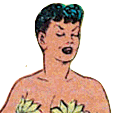
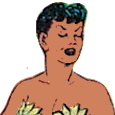
added new torchy version

diff --git a/script.js b/script.js
@@ -18,11 +18,17 @@ let t20 = document.querySelector("#t20");
 let t22 = document.querySelector("#t22");
 let t23 = document.querySelector("#t23");
 let t24 = document.querySelector("#t24");
+let t31 = document.querySelector("#t31");
+let t32 = document.querySelector("#t32");
+let t33 = document.querySelector("#t33");
+
 let container = document.querySelector("#dress-box");
 let container2 = document.querySelector("#dress-box2");
 let container3 = document.querySelector("#dress-box3");
 let container4 = document.querySelector("#dress-box4");
 let container5 = document.querySelector("#dress-box5");
+let container6 = document.querySelector("#dress-box6");
+
 
 function moveDress(dragItem, container) {
 
@@ -114,6 +120,8 @@ let box2 = document.getElementById("box2");
 let box3 = document.getElementById("box3");
 let box4 = document.getElementById("box4");
 let box5 = document.getElementById("box5");
+let box6 = document.getElementById("box6");
+
 let intro= document.getElementById("intro");
 
 
@@ -122,8 +130,9 @@ let two = document.getElementById("two");
 let three = document.getElementById("three");
 let four = document.getElementById("four");
 let five= document.getElementById("five");
+let six= document.getElementById("six");
 
-let elms = [box1, box2, box3, box4, box5, intro];
+let elms = [box1, box2, box3, box4, box5, box6, intro];
 
 function viewDresses1() {
   let dresses= [t1, t2, t3, t4, t5];
@@ -193,8 +202,23 @@ function viewDresses5() {
   }
 };
 
+function viewDresses6() {
+  let dresses= [t31, t32, t33];
+  for (i=0; i < elms.length; i++){
+    if (elms[i] == box6){
+      show_elm(box6);
+    } else {
+      hide_elm(elms[i]);
+    }
+  };
+  for (i=0; i < dresses.length; i++){
+    moveDress(dresses[i], container6);
+  }
+};
+
 one.addEventListener("click", viewDresses1);
 two.addEventListener("click", viewDresses2);
 three.addEventListener("click", viewDresses3);
 four.addEventListener("click", viewDresses4);
 five.addEventListener("click", viewDresses5);
+six.addEventListener("click", viewDresses6);

diff --git a/styles.css b/styles.css
@@ -40,7 +40,7 @@ nav {
   background-color: rgba(173,109,104,.9);
 }
 
-#box1, #box2, #box3, #box4, #box5 {
+#box1, #box2, #box3, #box4, #box5, #box6 {
   position: fixed;
   top: 50px; bottom:50px;
   left: 0; right: 0;
@@ -57,6 +57,16 @@ nav {
   position: absolute;
   height: 38vh;
   z-index: 10;
+}
+
+.torchy-dress6 {
+  position: absolute;
+  height: 41vh;
+  z-index: 10;
+}
+
+#t31 {
+  height:39vh;
 }
 
 #t20 {
@@ -93,6 +103,11 @@ background-image: url("images/t1.png");
 
 #five {
   background-image: url("images/t5.png");
+
+}
+
+#six {
+  background-image: url("images/t6.png");
 
 }
 
@@ -165,7 +180,14 @@ background-image: url("images/t1.png");
     background-color: rgba(245, 143, 122,.7);
   }
 
-  #dress-box, #dress-box2, #dress-box3, #dress-box1, #dress-box4, #dress-box5 {
+  #dress-box6{
+    position: fixed;
+    top: 90px; bottom:90px;
+    left: 50px; right: 50px;
+    background-color: rgba(245, 143, 122,.7);
+  }
+
+  #dress-box, #dress-box2, #dress-box3, #dress-box1, #dress-box4, #dress-box5, #dress-box6 {
     top: 200px; bottom: 100px;
   }
 
@@ -265,7 +287,7 @@ background-image: url("images/t1.png");
     font-size: 35px;
   }
 
-  #dress-box, #dress-box2, #dress-box3, #dress-box4, #dress-box5 {
+  #dress-box, #dress-box2, #dress-box3, #dress-box4, #dress-box5, #dress-box6 {
     top: 100px; bottom: 20px;
   }
   .torchy {
@@ -302,11 +324,11 @@ background-image: url("images/t1.png");
     height: 50vh;
   }
 
-  #t1,#t8,  #t12, #t23, #t16a{
+  #t1,#t8,  #t12, #t23, #t16a, #t31{
     top:20%; left:10%;
     z-index: 5;
   }
-  #t2,#t13, #t24, #t17{
+  #t2,#t13, #t24, #t17, #t32{
     top:30%; left:15%;
     z-index: 6;
   }
@@ -314,7 +336,7 @@ background-image: url("images/t1.png");
     top:40%; left:20%;
     z-index: 7;
   }
-  #t4, #t7,#t15, #t19 {
+  #t4, #t7,#t15, #t19, #t33 {
     top:50%; left:25%;
     z-index: 8;
   }

diff --git a/index.html b/index.html
@@ -13,6 +13,7 @@
       <button class="button-dress" id="three" type="button" onclick="" name="three"></button>
       <button class="button-dress" id="four" type="button" onclick="" name="four"></button>
       <button class="button-dress" id="five" type="button" onclick="" name="five"></button>
+      <button class="button-dress" id="six" type="button" onclick="" name="six"></button>
     </nav>
 
     <section id="intro">
@@ -83,6 +84,19 @@
       <img id="sig" src="images/jackie.png" alt="">
     </div>
   </section>
+
+  <section id="box6">
+    <div id="dress-box6">
+      <img id="t30" class="torchy" src="images/torchy30.png" alt="">
+      <img id="t31" class="torchy-dress6" src="images/torchy31.png" alt="">
+      <img id="t32" class="torchy-dress6" src="images/torchy32.png" alt="">
+      <img id="t33" class="torchy-dress6" src="images/torchy33.png" alt="">
+      <img id="logo" class="torchy-dress6" src="images/torchylogo.png" alt="">
+      <img id="sig" class="torchy-dress6" src="images/jackie.png" alt="">
+    </div>
+  </section>
+
+
 
   </body>
 </html>
